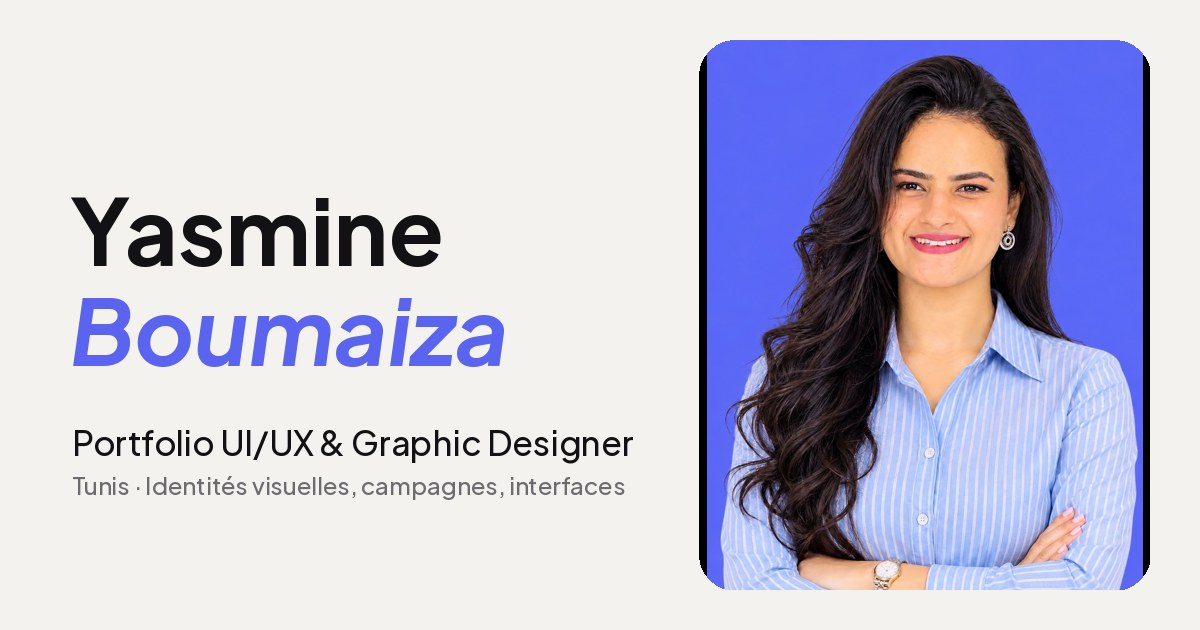
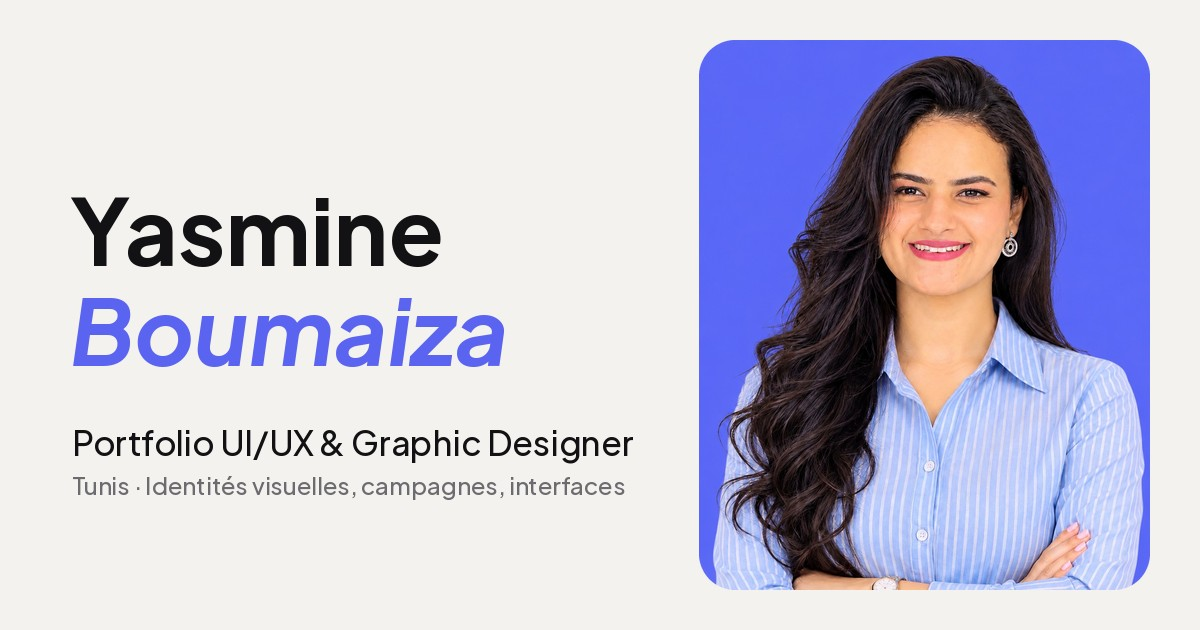
Couverture de partage sans bandes noires
Claude-Session: https://claude.ai/code/session_016J8KeiXPXn4KzNRr3LwqBv

Changed region(s): [[0.555, 0.0905, 0.9558, 0.9349]]

diff --git a/index.html b/index.html
@@ -15,13 +15,13 @@
 <meta property="og:title" content="YasmineBoumaiza-Portfolio UX/UI &amp; Graphic Designer">
 <meta property="og:description" content="Portfolio de Yasmine Boumaiza, graphiste et designer UI/UX basée à Tunis : identités visuelles, campagnes, interfaces.">
 <meta property="og:url" content="https://yasmineboumaiza92-cpu.github.io/yassmine.github.io/">
-<meta property="og:image" content="https://yasmineboumaiza92-cpu.github.io/yassmine.github.io/img/og-cover.jpg">
+<meta property="og:image" content="https://yasmineboumaiza92-cpu.github.io/yassmine.github.io/img/og-cover.jpg?v=2">
 <meta property="og:image:width" content="1200">
 <meta property="og:image:height" content="630">
 <meta name="twitter:card" content="summary_large_image">
 <meta name="twitter:title" content="YasmineBoumaiza-Portfolio UX/UI &amp; Graphic Designer">
 <meta name="twitter:description" content="Portfolio de Yasmine Boumaiza, graphiste et designer UI/UX basée à Tunis : identités visuelles, campagnes, interfaces.">
-<meta name="twitter:image" content="https://yasmineboumaiza92-cpu.github.io/yassmine.github.io/img/og-cover.jpg">
+<meta name="twitter:image" content="https://yasmineboumaiza92-cpu.github.io/yassmine.github.io/img/og-cover.jpg?v=2">
 <link rel="preconnect" href="https://fonts.googleapis.com">
 <link rel="preconnect" href="https://fonts.gstatic.com" crossorigin>
 <link href="https://fonts.googleapis.com/css2?family=Plus+Jakarta+Sans:ital,wght@0,300..800;1,300..800&family=Alexandria:wght@400;600&family=Jost:wght@400;600&family=Lalezar&display=swap" rel="stylesheet">
